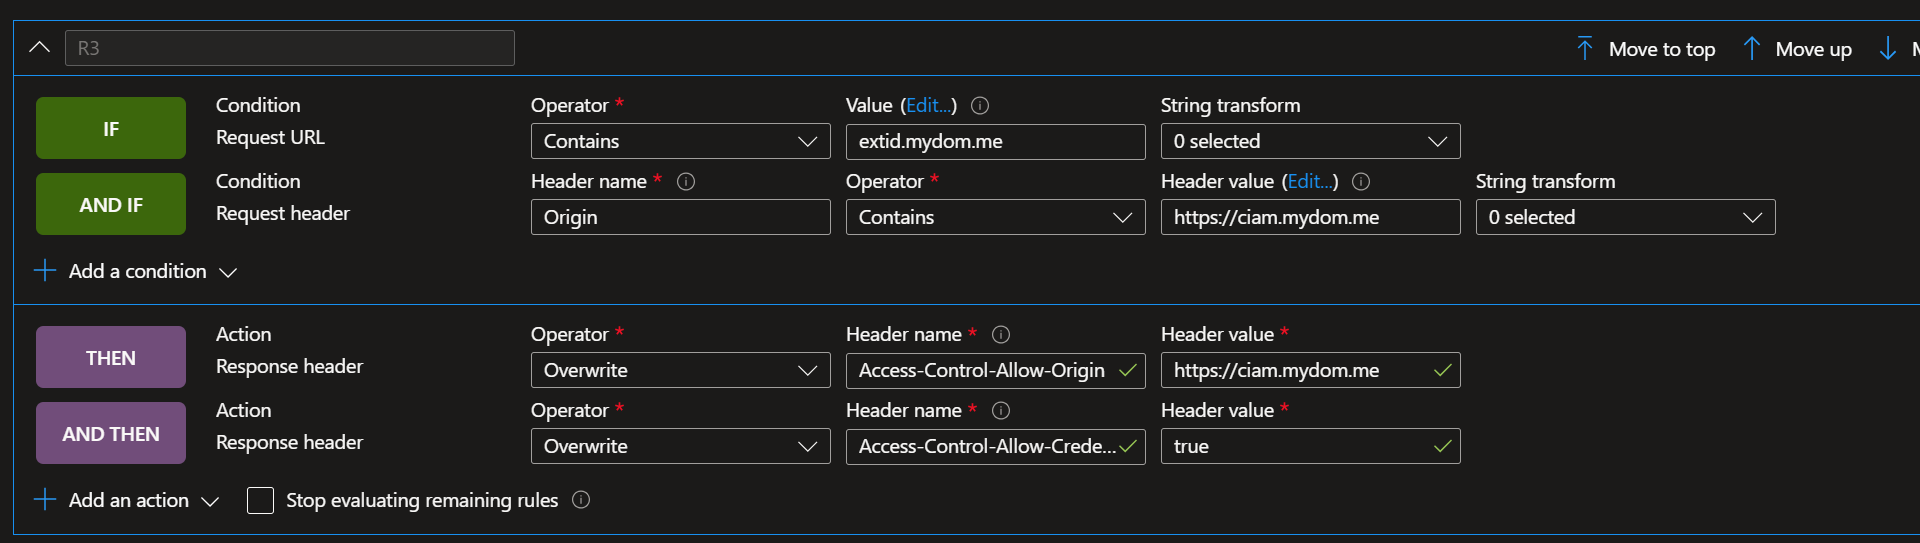
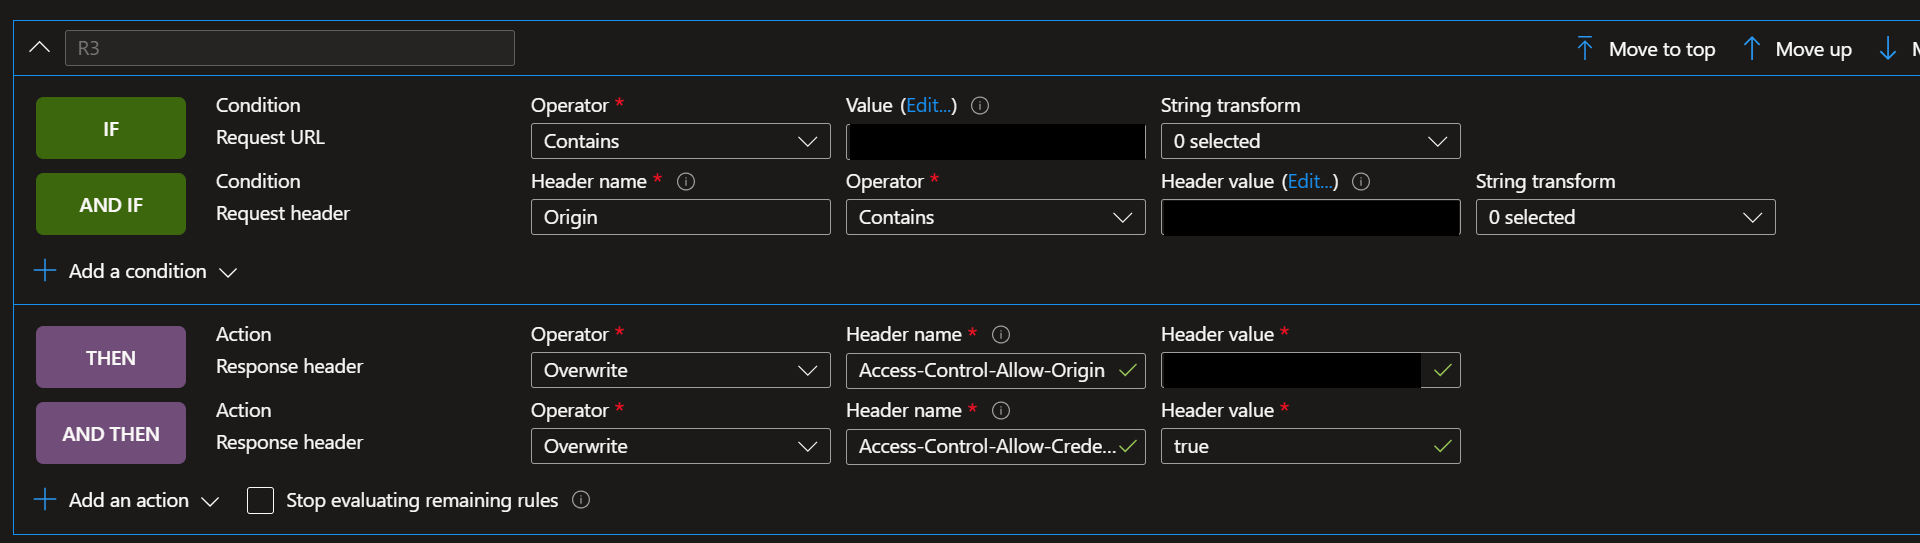
docs: redact real domain names from README and screenshots

Changed region(s): [[0.5938, 0.3536, 0.7812, 0.442], [0.5938, 0.6483, 0.75, 0.7366], [0.4375, 0.2063, 0.5938, 0.2947]]

diff --git a/saml_obo_portal/README.md b/saml_obo_portal/README.md
@@ -4,14 +4,14 @@ A self-contained ASP.NET Core (.NET 9) application that demonstrates **Microsoft
 
 ## What it demonstrates
 
-1. **Native auth SPA** — A pre-built browser client signs the user in directly against Entra External ID (`<native-auth-host>`) using the native authentication flow (username / password / OTP), with no redirect to a hosted login page.
+1. **Native auth SPA** — A pre-built browser client signs the user in directly against Entra External ID (`<custom url>`) using the native authentication flow (username / password / OTP), with no redirect to a hosted login page.
 2. **Backend OBO exchange** — The SPA posts the resulting access token to the backend, which performs a confidential-client OBO exchange requesting `requested_token_type=urn:ietf:params:oauth:token-type:saml2`.
 3. **SAML SSO** — The backend wraps the returned SAML assertion in a `<samlp:Response>` and auto-POSTs it to the SAML Assertion Consumer Service (ACS). The SAML SP validates signature, audience, lifetime, and replay, then shows the result.
 
 ## Architecture
 
 ```
-Browser SPA ──(native auth)──► Entra External ID (<native-auth-host>)
+Browser SPA ──(native auth)──► Entra External ID (<custom url>)
      │  access token
      ▼
 POST /portallogon/sso ──► Backend (OBO confidential client)
@@ -120,10 +120,10 @@ dotnet publish -c Release -o ./publish
 
 ## Important note on CORS configuration
 
-The native-auth SPA calls the Entra External ID native authentication endpoints (for example `/oauth2/v2.0/initiate`) **directly from the browser**. Because the SPA is served from a different origin than the authentication host (for example the app runs on `http://localhost:5000` locally, or on your web server, while the auth endpoints live on `<native-auth-host>`), these are cross-origin requests and the browser enforces CORS. Entra External ID native-auth endpoints only return an `Access-Control-Allow-Origin` header for origins that are explicitly registered on the SPA app registration. If the requesting origin is not allowed, the browser discards the response and the SPA sign-in fails with **"Failed to fetch"**, even though the network tab may show the request returned `200 (OK)`. The console shows an error similar to:
+The native-auth SPA calls the Entra External ID native authentication endpoints (for example `/oauth2/v2.0/initiate`) **directly from the browser**. Because the SPA is served from a different origin than the authentication host (for example the app runs on `http://localhost:5000` locally, or on your web server, while the auth endpoints live on `<custom url>`), these are cross-origin requests and the browser enforces CORS. Entra External ID native-auth endpoints only return an `Access-Control-Allow-Origin` header for origins that are explicitly registered on the SPA app registration. If the requesting origin is not allowed, the browser discards the response and the SPA sign-in fails with **"Failed to fetch"**, even though the network tab may show the request returned `200 (OK)`. The console shows an error similar to:
 
 ```
-Access to fetch at 'https://<native-auth-host>/<tenant-id>/oauth2/v2.0/initiate' from origin 'http://localhost:5000'
+Access to fetch at 'https://<custom url>/<tenant-id>/oauth2/v2.0/initiate' from origin 'http://localhost:5000'
 has been blocked by CORS policy: No 'Access-Control-Allow-Origin' header is present on the requested resource.
 ```
 
@@ -131,11 +131,11 @@ has been blocked by CORS policy: No 'Access-Control-Allow-Origin' header is pres
 
 ### Using Azure Front Door as a CORS-rewriting proxy
 
-When you front the application with a **custom domain**, you can route the native-auth calls through **Azure Front Door (AFD)** and have AFD act as a reverse proxy that rewrites the CORS headers. AFD sits in front of the Entra External ID custom domain (`<native-auth-host>`) and, using a rule set, injects the CORS response headers the browser requires so the sign-in succeeds without changing the SPA or the client app.
+When you front the application with a **custom domain**, you can route the native-auth calls through **Azure Front Door (AFD)** and have AFD act as a reverse proxy that rewrites the CORS headers. AFD sits in front of the Entra External ID custom domain (`<custom url>`) and, using a rule set, injects the CORS response headers the browser requires so the sign-in succeeds without changing the SPA or the client app.
 
 The rule matches on the upstream request URL and the browser's `Origin`, then overwrites the response headers on the way back:
 
-- **Condition** — `Request URL` *Contains* `<native-auth-host>` **AND** `Request header` `Origin` *Contains* the allowed custom-domain origin (for example `https://ciam.mydom.me`).
+- **Condition** — `Request URL` *Contains* `<custom url>` **AND** `Request header` `Origin` *Contains* the allowed custom-domain origin (for example `https://<custom url>`).
 - **Action** — Overwrite `Access-Control-Allow-Origin` with the custom-domain origin, and overwrite `Access-Control-Allow-Credentials` with `true`.
 
 ![AFD rule condition matching the request URL and Origin header](images/afd-rule-origin-condition.png)